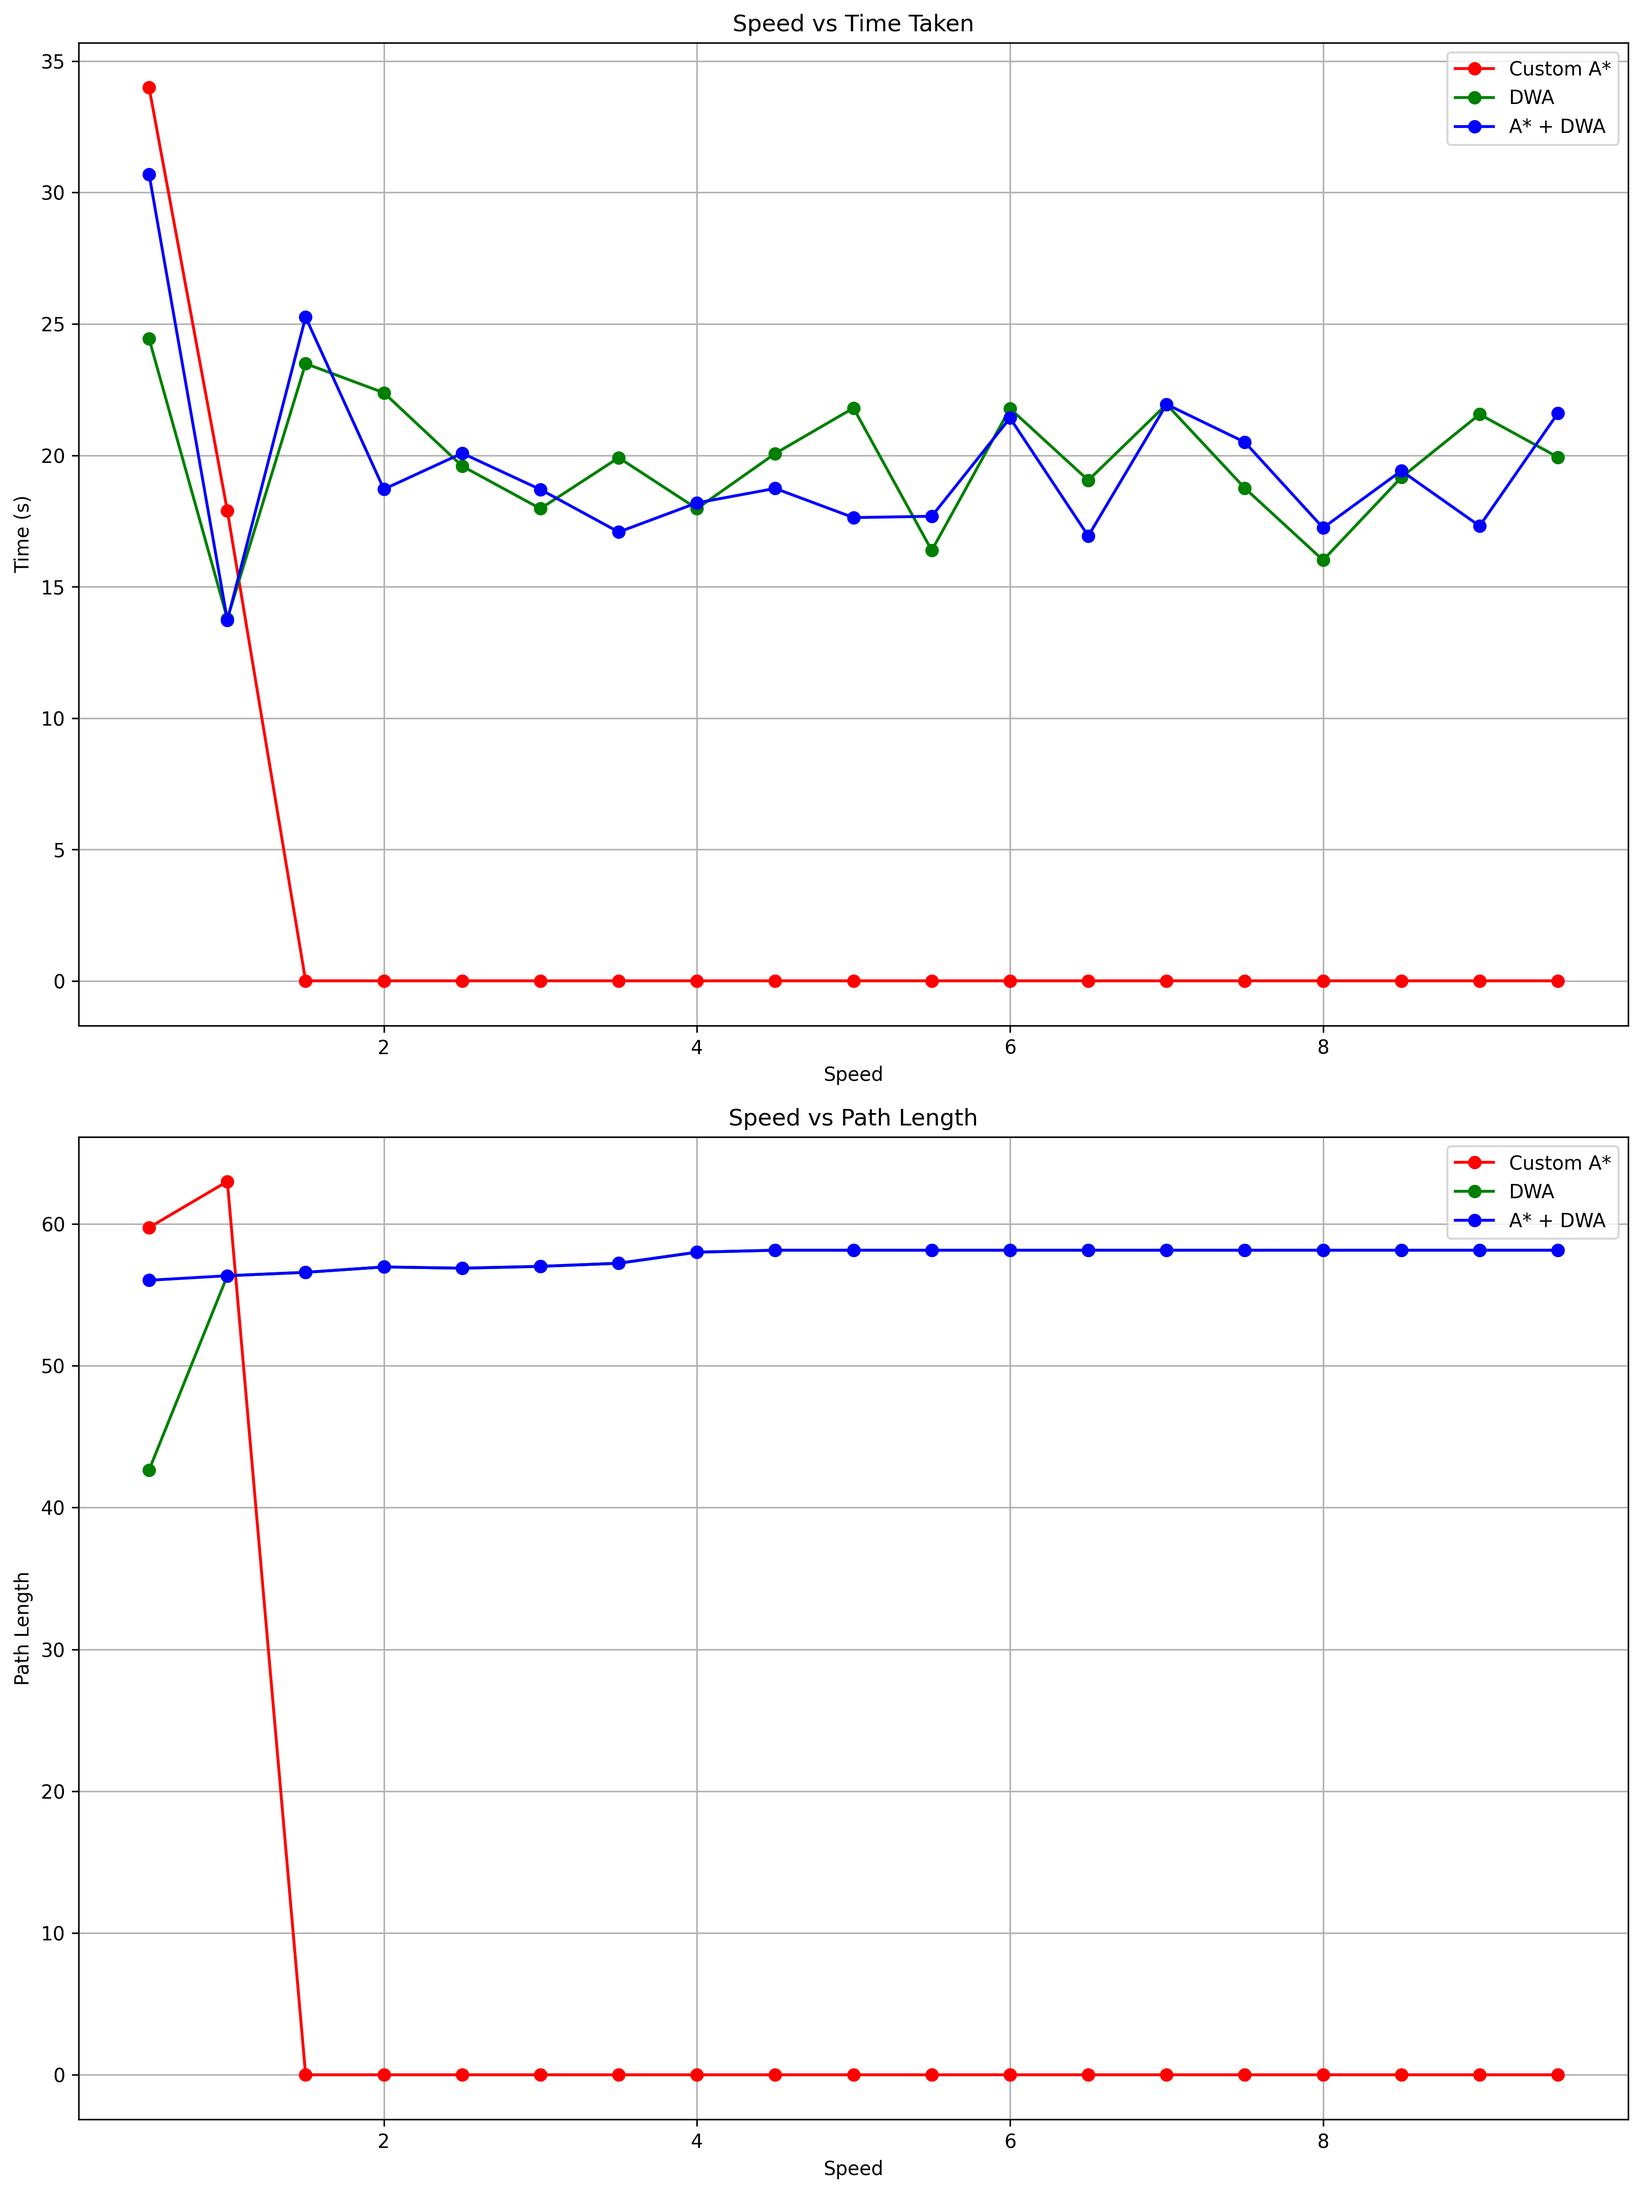
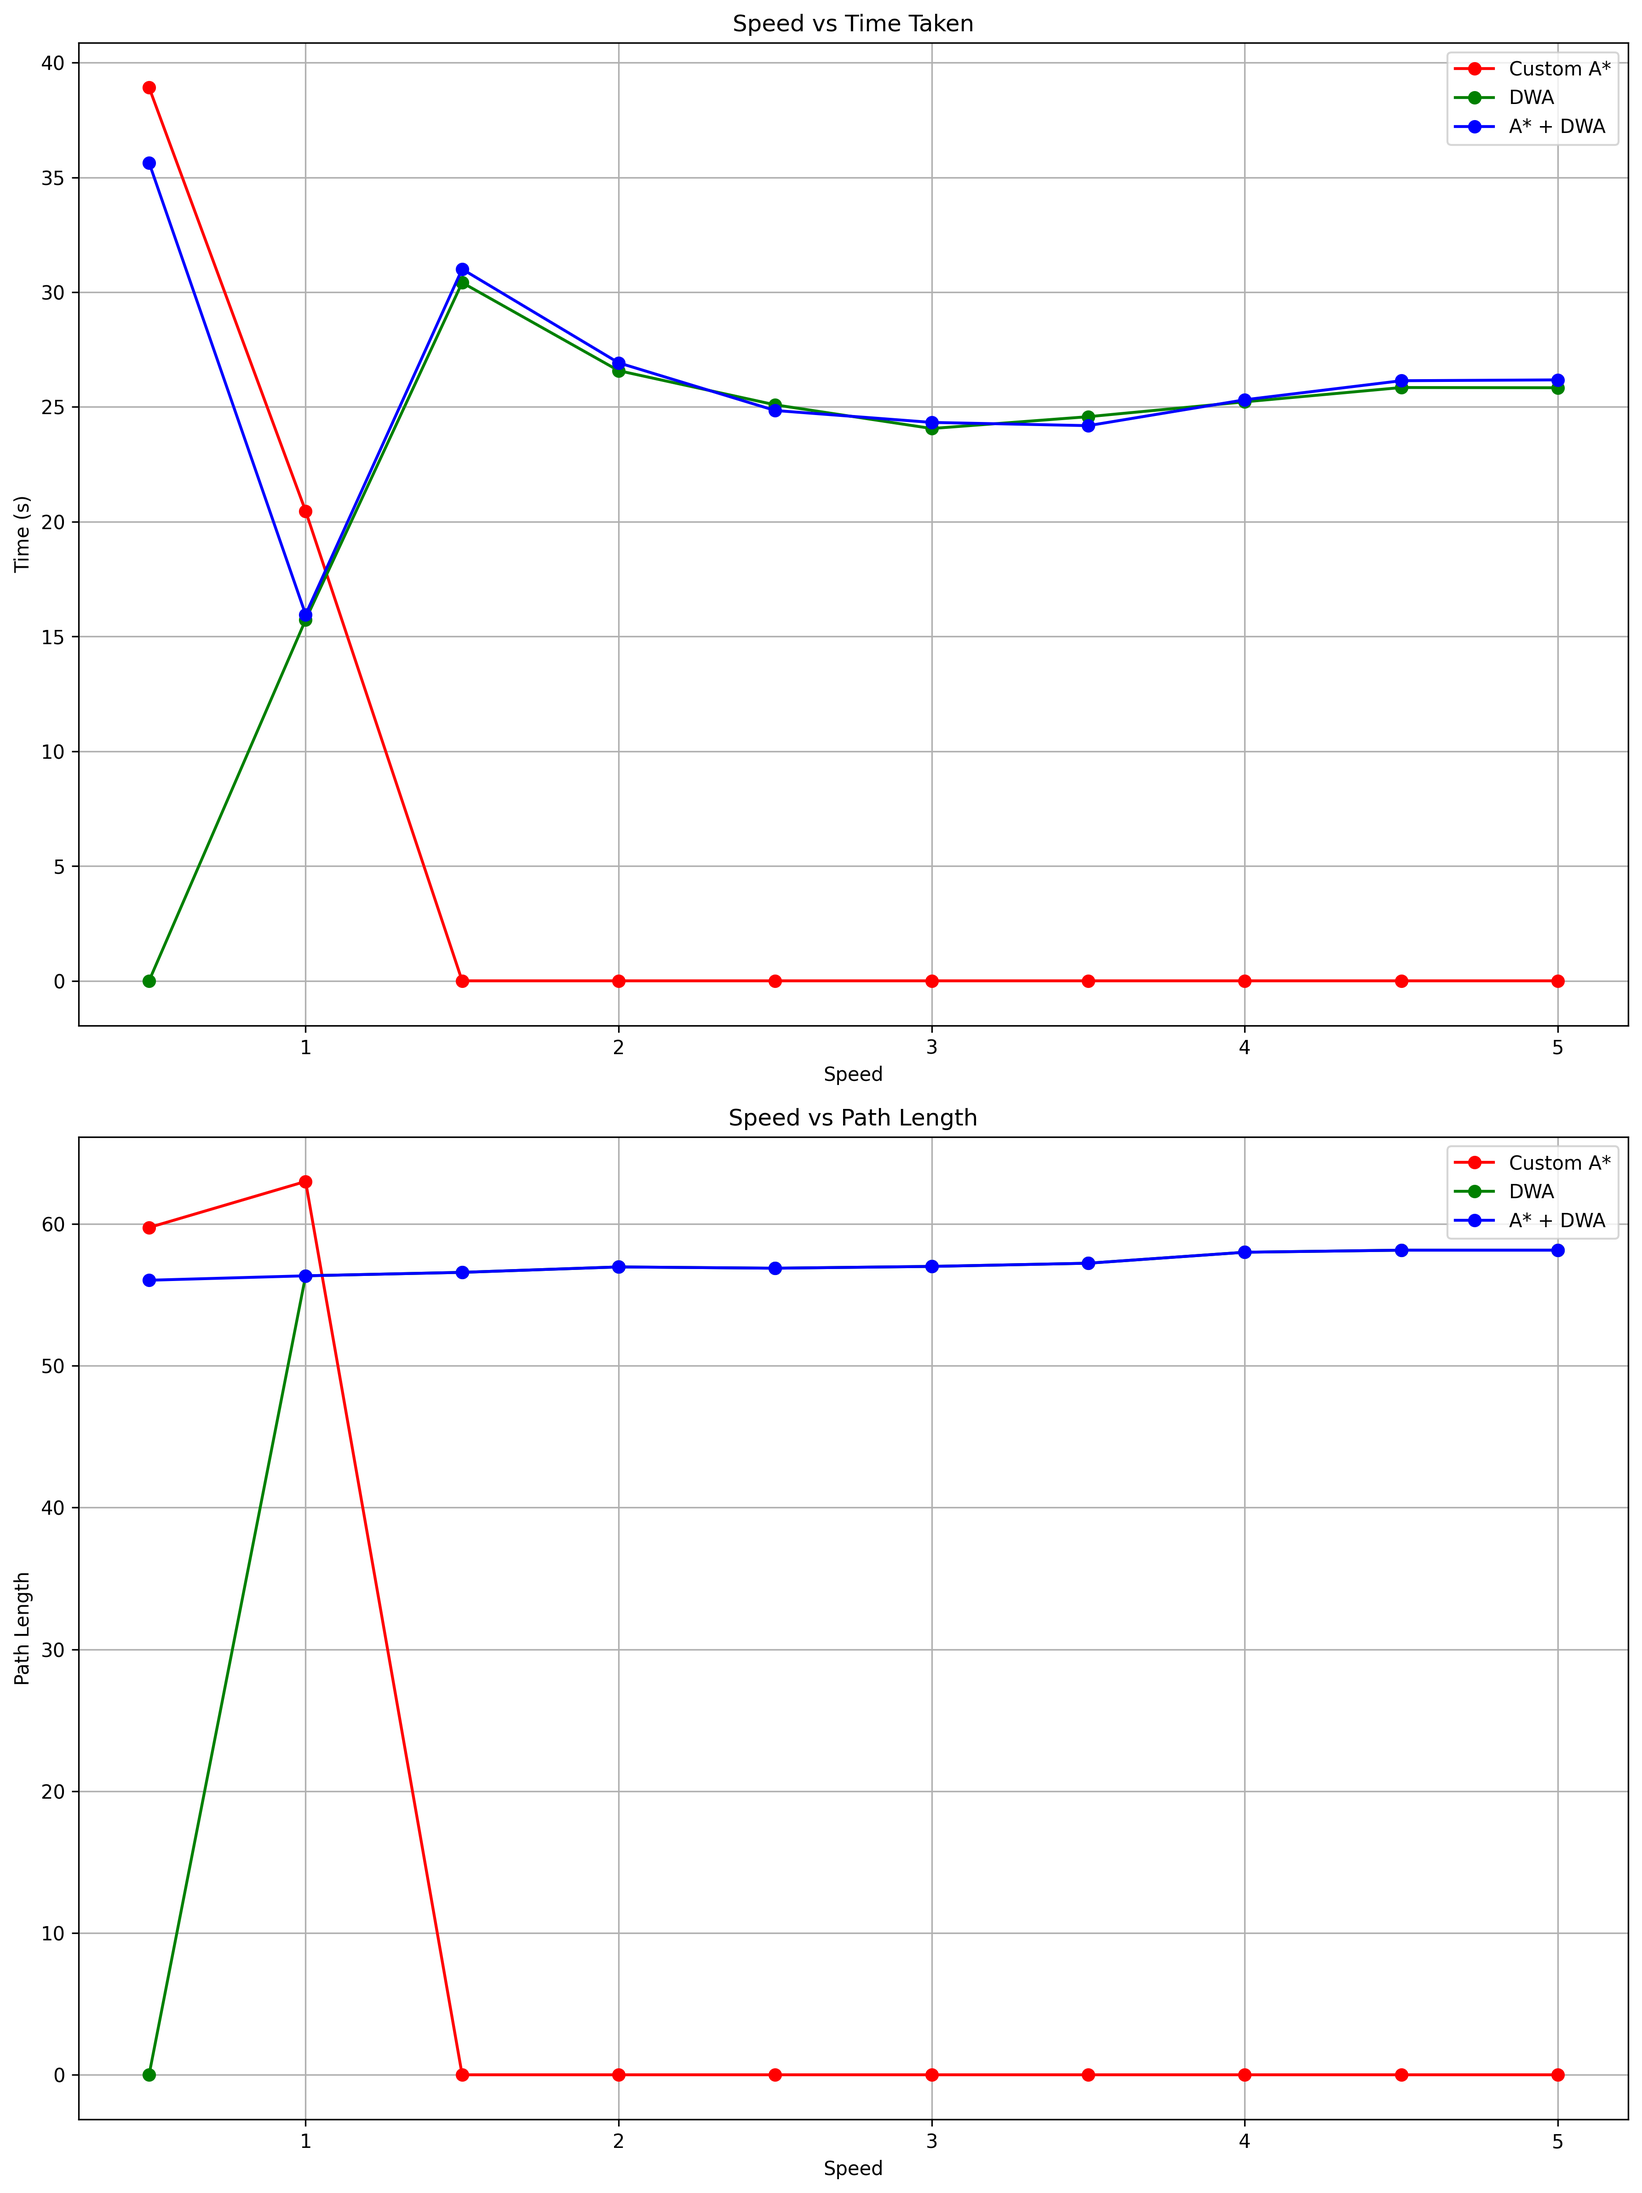
trying

diff --git a/obstacle.py b/obstacle.py
@@ -8,6 +8,7 @@ from scipy.spatial import distance
 import logging
 import threading
 import csv
+import random
 
 # Set up logging
 logging.basicConfig(level=logging.INFO, format='%(asctime)s - %(levelname)s - %(message)s')
@@ -15,13 +16,13 @@ logging.basicConfig(level=logging.INFO, format='%(asctime)s - %(levelname)s - %(
 # Import necessary classes and functions from your existing scripts
 from customastar import CustomAStar, CustomAStarAgent, Config as CustomConfig
 from dynamicwindow2D import dwa_control, motion, Config as DWAConfig, RobotType
-from failsafe import AStarDWAAgent
+from worksSomewhat2 import AStarDWAAgent
 
 # Disable show_animation globally
 import sys
 sys.modules['customastar'].show_animation = False
 sys.modules['dynamicwindow2D'].show_animation = False
-sys.modules['failsafe'].show_animation = False
+sys.modules['worksSomewhat2'].show_animation = False
 
 class PerformanceMetrics:
     def __init__(self):
@@ -126,36 +127,61 @@ def run_astar_dwa(start, goal, obstacles, speed):
     return metrics
 
 def plot_results(results):
-    fig, ax = plt.subplots(figsize=(15, 10))
+    fig, (ax1, ax2) = plt.subplots(2, 1, figsize=(15, 20))
     
-    speeds = list(results.keys())
+    obstacle_counts = list(results.keys())
     algorithms = ['Custom A*', 'DWA', 'A* + DWA']
     colors = ['r', 'g', 'b']
     
     for i, algorithm in enumerate(algorithms):
         execution_times = []
-        for speed in speeds:
-            metrics = results[speed][i]
+        path_lengths = []
+        for count in obstacle_counts:
+            metrics = results[count][i]
             if metrics['success']:
                 execution_times.append(metrics['time'])
+                path_lengths.append(metrics['path_length'])
             else:
                 execution_times.append(float('nan'))
+                path_lengths.append(float('nan'))
         
-        ax.plot(speeds, execution_times, f'-{colors[i]}o', label=algorithm)
+        ax1.plot(obstacle_counts, execution_times, f'-{colors[i]}o', label=algorithm)
+        ax2.plot(obstacle_counts, path_lengths, f'-{colors[i]}o', label=algorithm)
         
-        for j, time in enumerate(execution_times):
+        for j, (time, length) in enumerate(zip(execution_times, path_lengths)):
             if math.isnan(time):
-                ax.text(speeds[j], ax.get_ylim()[1], 'Failed', 
+                ax1.text(obstacle_counts[j], ax1.get_ylim()[1], 'Failed', 
+                         ha='center', va='bottom', color=colors[i], rotation=90)
+                ax2.text(obstacle_counts[j], ax2.get_ylim()[1], 'Failed', 
                          ha='center', va='bottom', color=colors[i], rotation=90)
     
-    ax.set_xlabel('Speed')
-    ax.set_ylabel('Execution Time (s)')
-    ax.set_title('Algorithm Performance Comparison')
-    ax.legend()
-    ax.grid(True)
+    ax1.set_xlabel('Number of Obstacles')
+    ax1.set_ylabel('Execution Time (s)')
+    ax1.set_title('Algorithm Execution Time Comparison')
+    ax1.legend()
+    ax1.grid(True)
     
+    ax2.set_xlabel('Number of Obstacles')
+    ax2.set_ylabel('Path Length')
+    ax2.set_title('Algorithm Path Length Comparison')
+    ax2.legend()
+    ax2.grid(True)
+    
+    fig.tight_layout()
     fig.savefig('algorithm_comparison.png', dpi=300, bbox_inches='tight')
     plt.close(fig)
+
+def generate_random_obstacles(num_obstacles, start, goal, arena_size=50):
+    obstacles = []
+    for _ in range(num_obstacles):
+        while True:
+            x = random.uniform(0, arena_size)
+            y = random.uniform(0, arena_size)
+            if (distance.euclidean((x, y), start) > 3 and 
+                distance.euclidean((x, y), goal) > 3):
+                obstacles.append((x, y, 1.0))  # 1.0 is the obstacle radius
+                break
+    return obstacles
 
 def run_trial(start, goal, obstacles, speed):
     custom_astar_metrics = run_with_timeout(run_custom_astar, (start, goal, obstacles, speed), 60)
@@ -177,44 +203,36 @@ def average_metrics(metrics_list):
 def main():
     start = (5.0, 5.0)
     goal = (45.0, 45.0)
-    
-    obstacles = [
-        (10.0, 10.0, 1.0),
-        (20.0, 20.0, 1.0),
-        (30.0, 26.0, 1.0),
-        (40.0, 42.0, 1.0),
-        (15.0, 35.0, 1.0),
-        (35.0, 15.0, 1.0)
-    ]
+    speed = 1.0
     
     results = {}
     
-    for speed in np.arange(0.5, 5.5, 0.5):
-        print(f"Running simulations with speed: {speed}")
+    for obstacle_count in range(5, 10, 5):
+        print(f"Running simulations with {obstacle_count} obstacles")
         
         custom_astar_results = []
         dwa_results = []
         astar_dwa_results = []
         
         for _ in range(10):
+            obstacles = generate_random_obstacles(obstacle_count, start, goal)
             trial_results = run_trial(start, goal, obstacles, speed)
             custom_astar_results.append(trial_results[0])
             dwa_results.append(trial_results[1])
             astar_dwa_results.append(trial_results[2])
         
-        results[speed] = [
+        results[obstacle_count] = [
             average_metrics(custom_astar_results),
             average_metrics(dwa_results),
             average_metrics(astar_dwa_results)
         ]
     
-  
-    with open('algorithm_comparison_results.csv', 'w', newline='') as csvfile:
+    with open('algorithm_comparison_results_obs.csv', 'w', newline='') as csvfile:
         csvwriter = csv.writer(csvfile)
-        csvwriter.writerow(['Speed', 'CustomA*_Time', 'CustomA*_PathLength', 'DWA_Time', 'DWA_PathLength', 'AStarDWA_Time', 'AStarDWA_PathLength'])
+        csvwriter.writerow(['Obstacles', 'CustomA*_Time', 'CustomA*_PathLength', 'DWA_Time', 'DWA_PathLength', 'AStarDWA_Time', 'AStarDWA_PathLength'])
         
-        for speed, metrics in results.items():
-            row = [speed]
+        for obstacle_count, metrics in results.items():
+            row = [obstacle_count]
             for alg_metrics in metrics:
                 if alg_metrics['success']:
                     row.extend([alg_metrics['time'], alg_metrics['path_length']])

diff --git a/genGrapg.py b/genGrapg.py
@@ -2,7 +2,7 @@ import pandas as pd
 import matplotlib.pyplot as plt
 
 
-df = pd.read_csv('results2.csv')
+df = pd.read_csv('algorithm_comparison_results.csv')
 
 fig, (ax1, ax2) = plt.subplots(2, 1, figsize=(12, 16))
 
